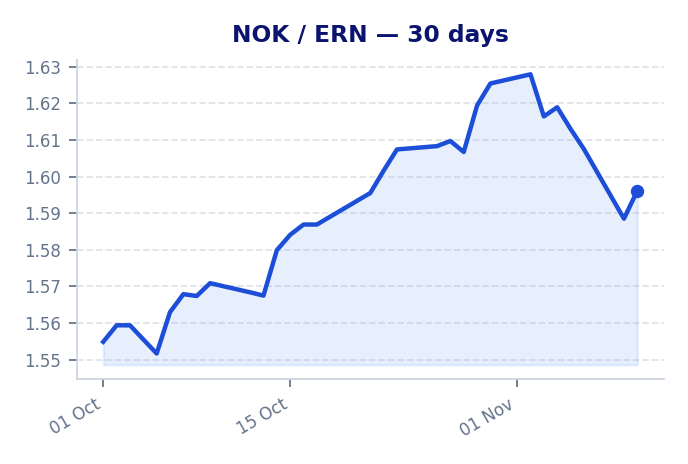
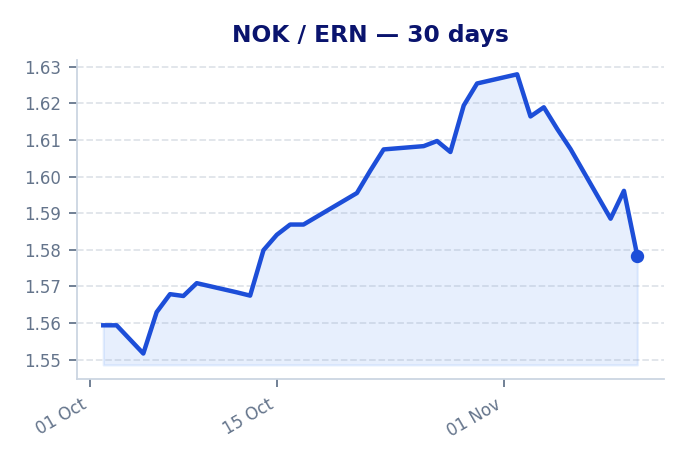
Add files via upload

diff --git a/index.html b/index.html
@@ -912,22 +912,22 @@ tr:hover {
 
             <div class="summary-item">
                 <div class="summary-label">SEK</div>
-                <div class="summary-value">1.531</div>
+                <div class="summary-value">1.5183</div>
             </div>
 
             <div class="summary-item">
                 <div class="summary-label">NOK</div>
-                <div class="summary-value">1.5961</div>
+                <div class="summary-value">1.5784</div>
             </div>
 
             <div class="summary-item">
                 <div class="summary-label">DKK</div>
-                <div class="summary-value">2.2522</div>
+                <div class="summary-value">2.2389</div>
             </div>
 
             </div>
             <div class="mid-market-meta">
-                <div><span style="font-weight:600" data-i18n="last-updated">Last Updated:</span> 2026-11-10 07:01</div>
+                <div><span style="font-weight:600" data-i18n="last-updated">Last Updated:</span> 2026-11-11 07:13</div>
                 <div style="font-size:0.8rem" data-i18n="mid-market-note">Official mid-market rates collected daily. Actual transfer payout rates shown below.</div>
             </div>
         </div>
@@ -951,7 +951,7 @@ tr:hover {
                 </div>
                 <div class="gainbox">
                     <span class="icon">💡</span> 
-                    <span data-i18n="smart-move">Smart Move: You get <b>+358 ERN</b> more with <b>Ria</b> vs <b>Juba Express</b></span>
+                    <span data-i18n="smart-move">Smart Move: You get <b>+471 ERN</b> more with <b>Ria</b> vs <b>Juba Express</b></span>
                 </div>
             </div>
             
@@ -978,19 +978,19 @@ tr:hover {
 <td class="right font-numeric">0,00</td>
 <td class="right nowrap font-numeric highlight-ern">15 000</td>
 <td class="right nowrap font-numeric">-</td>
-<td class="right font-numeric markup-cell">2.02%</td>
+<td class="right font-numeric markup-good">1.21%</td>
 <td class="right font-numeric hide-mobile"><span class="badge best-badge">Best</span></td>
 </tr>
 
 <tr class="">
 <td class="left">
-    <div class="company-name">Remitly</div>
+    <div class="company-name">Transfer Galaxy</div>
 </td>
-<td class="right font-numeric">1.4917</td>
+<td class="right font-numeric">1.4854</td>
 <td class="right font-numeric">0,00</td>
-<td class="right nowrap font-numeric highlight-ern">14 917</td>
-<td class="right nowrap font-numeric"><span class="loss-text">-83 ERN</span></td>
-<td class="right font-numeric markup-cell">2.57%</td>
+<td class="right nowrap font-numeric highlight-ern">14 854</td>
+<td class="right nowrap font-numeric"><span class="loss-text">-146 ERN</span></td>
+<td class="right font-numeric markup-cell">2.17%</td>
 <td class="right font-numeric hide-mobile"><span class="badge rank-badge">#2</span></td>
 </tr>
 
@@ -998,23 +998,23 @@ tr:hover {
 <td class="left">
     <div class="company-name">Western Union</div>
 </td>
-<td class="right font-numeric">1.4889</td>
+<td class="right font-numeric">1.4788</td>
 <td class="right font-numeric">0,00</td>
-<td class="right nowrap font-numeric highlight-ern">14 888</td>
-<td class="right nowrap font-numeric"><span class="loss-text">-111 ERN</span></td>
-<td class="right font-numeric markup-cell">2.75%</td>
+<td class="right nowrap font-numeric highlight-ern">14 787</td>
+<td class="right nowrap font-numeric"><span class="loss-text">-212 ERN</span></td>
+<td class="right font-numeric markup-cell">2.60%</td>
 <td class="right font-numeric hide-mobile"><span class="badge rank-badge">#3</span></td>
 </tr>
 
 <tr class="">
 <td class="left">
-    <div class="company-name">Transfer Galaxy</div>
+    <div class="company-name">Remitly</div>
 </td>
-<td class="right font-numeric">1.4849</td>
+<td class="right font-numeric">1.4785</td>
 <td class="right font-numeric">0,00</td>
-<td class="right nowrap font-numeric highlight-ern">14 849</td>
-<td class="right nowrap font-numeric"><span class="loss-text">-150 ERN</span></td>
-<td class="right font-numeric markup-cell">3.01%</td>
+<td class="right nowrap font-numeric highlight-ern">14 785</td>
+<td class="right nowrap font-numeric"><span class="loss-text">-215 ERN</span></td>
+<td class="right font-numeric markup-cell">2.62%</td>
 <td class="right font-numeric hide-mobile"><span class="badge rank-badge">#4</span></td>
 </tr>
 
@@ -1022,11 +1022,11 @@ tr:hover {
 <td class="left">
     <div class="company-name">Dahabshiil</div>
 </td>
-<td class="right font-numeric">1.4744</td>
+<td class="right font-numeric">1.4623</td>
 <td class="right font-numeric">0,00</td>
-<td class="right nowrap font-numeric highlight-ern">14 744</td>
-<td class="right nowrap font-numeric"><span class="loss-text">-256 ERN</span></td>
-<td class="right font-numeric markup-cell">3.70%</td>
+<td class="right nowrap font-numeric highlight-ern">14 623</td>
+<td class="right nowrap font-numeric"><span class="loss-text">-377 ERN</span></td>
+<td class="right font-numeric markup-cell">3.69%</td>
 <td class="right font-numeric hide-mobile"><span class="badge rank-badge">#5</span></td>
 </tr>
 
@@ -1034,11 +1034,11 @@ tr:hover {
 <td class="left">
     <div class="company-name">Juba Express</div>
 </td>
-<td class="right font-numeric">1.4642</td>
+<td class="right font-numeric">1.4529</td>
 <td class="right font-numeric">0,00</td>
-<td class="right nowrap font-numeric highlight-ern">14 642</td>
-<td class="right nowrap font-numeric"><span class="loss-text">-358 ERN</span></td>
-<td class="right font-numeric markup-cell">4.36%</td>
+<td class="right nowrap font-numeric highlight-ern">14 529</td>
+<td class="right nowrap font-numeric"><span class="loss-text">-471 ERN</span></td>
+<td class="right font-numeric markup-cell">4.31%</td>
 <td class="right font-numeric hide-mobile"><span class="badge rank-badge">#6</span></td>
 </tr>
 
@@ -1060,11 +1060,11 @@ tr:hover {
             <div class="insight-boxes">
                 <div class="bestbox">
                     <span class="icon">🏆</span> 
-                    <span data-i18n="top-pick">Top Pick: <b>Remitly</b> delivers <b>15 489 ERN</b></span>
+                    <span data-i18n="top-pick">Top Pick: <b>Transfer Galaxy</b> delivers <b>15 416 ERN</b></span>
                 </div>
                 <div class="gainbox">
                     <span class="icon">💡</span> 
-                    <span data-i18n="smart-move">Smart Move: You get <b>+596 ERN</b> more with <b>Remitly</b> vs <b>Dahabshiil</b></span>
+                    <span data-i18n="smart-move">Smart Move: You get <b>+690 ERN</b> more with <b>Transfer Galaxy</b> vs <b>Dahabshiil</b></span>
                 </div>
             </div>
             
@@ -1085,26 +1085,14 @@ tr:hover {
                         
 <tr class="best-row">
 <td class="left">
-    <div class="company-name">Remitly</div>
-</td>
-<td class="right font-numeric">1.5489</td>
-<td class="right font-numeric">0,00</td>
-<td class="right nowrap font-numeric highlight-ern">15 489</td>
-<td class="right nowrap font-numeric">-</td>
-<td class="right font-numeric markup-cell">2.96%</td>
-<td class="right font-numeric hide-mobile"><span class="badge best-badge">Best</span></td>
-</tr>
-
-<tr class="">
-<td class="left">
     <div class="company-name">Transfer Galaxy</div>
 </td>
-<td class="right font-numeric">1.5456</td>
+<td class="right font-numeric">1.5416</td>
 <td class="right font-numeric">0,00</td>
-<td class="right nowrap font-numeric highlight-ern">15 456</td>
-<td class="right nowrap font-numeric"><span class="loss-text">-33 ERN</span></td>
-<td class="right font-numeric markup-cell">3.16%</td>
-<td class="right font-numeric hide-mobile"><span class="badge rank-badge">#2</span></td>
+<td class="right nowrap font-numeric highlight-ern">15 416</td>
+<td class="right nowrap font-numeric">-</td>
+<td class="right font-numeric markup-cell">2.33%</td>
+<td class="right font-numeric hide-mobile"><span class="badge best-badge">Best</span></td>
 </tr>
 
 <tr class="">
@@ -1114,8 +1102,20 @@ tr:hover {
 <td class="right font-numeric">1.5400</td>
 <td class="right font-numeric">0,00</td>
 <td class="right nowrap font-numeric highlight-ern">15 400</td>
-<td class="right nowrap font-numeric"><span class="loss-text">-89 ERN</span></td>
-<td class="right font-numeric markup-cell">3.51%</td>
+<td class="right nowrap font-numeric"><span class="loss-text">-16 ERN</span></td>
+<td class="right font-numeric markup-cell">2.43%</td>
+<td class="right font-numeric hide-mobile"><span class="badge rank-badge">#2</span></td>
+</tr>
+
+<tr class="">
+<td class="left">
+    <div class="company-name">Remitly</div>
+</td>
+<td class="right font-numeric">1.5313</td>
+<td class="right font-numeric">0,00</td>
+<td class="right nowrap font-numeric highlight-ern">15 313</td>
+<td class="right nowrap font-numeric"><span class="loss-text">-102 ERN</span></td>
+<td class="right font-numeric markup-cell">2.98%</td>
 <td class="right font-numeric hide-mobile"><span class="badge rank-badge">#3</span></td>
 </tr>
 
@@ -1123,10 +1123,10 @@ tr:hover {
 <td class="left">
     <div class="company-name">Juba Express</div>
 </td>
-<td class="right font-numeric">1.5266</td>
+<td class="right font-numeric">1.5097</td>
 <td class="right font-numeric">0,00</td>
-<td class="right nowrap font-numeric highlight-ern">15 266</td>
-<td class="right nowrap font-numeric"><span class="loss-text">-223 ERN</span></td>
+<td class="right nowrap font-numeric highlight-ern">15 097</td>
+<td class="right nowrap font-numeric"><span class="loss-text">-319 ERN</span></td>
 <td class="right font-numeric markup-cell">4.35%</td>
 <td class="right font-numeric hide-mobile"><span class="badge rank-badge">#4</span></td>
 </tr>
@@ -1135,11 +1135,11 @@ tr:hover {
 <td class="left">
     <div class="company-name">Hidmona Money Transfer</div>
 </td>
-<td class="right font-numeric">1.5154</td>
+<td class="right font-numeric">1.4987</td>
 <td class="right font-numeric">0,00</td>
-<td class="right nowrap font-numeric highlight-ern">15 154</td>
-<td class="right nowrap font-numeric"><span class="loss-text">-335 ERN</span></td>
-<td class="right font-numeric markup-cell">5.06%</td>
+<td class="right nowrap font-numeric highlight-ern">14 987</td>
+<td class="right nowrap font-numeric"><span class="loss-text">-429 ERN</span></td>
+<td class="right font-numeric markup-cell">5.05%</td>
 <td class="right font-numeric hide-mobile"><span class="badge rank-badge">#5</span></td>
 </tr>
 
@@ -1147,11 +1147,11 @@ tr:hover {
 <td class="left">
     <div class="company-name">Dahabshiil</div>
 </td>
-<td class="right font-numeric">1.4893</td>
+<td class="right font-numeric">1.4726</td>
 <td class="right font-numeric">0,00</td>
-<td class="right nowrap font-numeric highlight-ern">14 893</td>
-<td class="right nowrap font-numeric"><span class="loss-text">-596 ERN</span></td>
-<td class="right font-numeric markup-cell">6.69%</td>
+<td class="right nowrap font-numeric highlight-ern">14 726</td>
+<td class="right nowrap font-numeric"><span class="loss-text">-690 ERN</span></td>
+<td class="right font-numeric markup-cell">6.70%</td>
 <td class="right font-numeric hide-mobile"><span class="badge rank-badge">#6</span></td>
 </tr>
 
@@ -1173,11 +1173,11 @@ tr:hover {
             <div class="insight-boxes">
                 <div class="bestbox">
                     <span class="icon">🏆</span> 
-                    <span data-i18n="top-pick">Top Pick: <b>Western Union</b> delivers <b>22 511 ERN</b></span>
+                    <span data-i18n="top-pick">Top Pick: <b>Western Union</b> delivers <b>22 404 ERN</b></span>
                 </div>
                 <div class="gainbox">
                     <span class="icon">💡</span> 
-                    <span data-i18n="smart-move">Smart Move: You get <b>+971 ERN</b> more with <b>Western Union</b> vs <b>Juba Express</b></span>
+                    <span data-i18n="smart-move">Smart Move: You get <b>+987 ERN</b> more with <b>Western Union</b> vs <b>Juba Express</b></span>
                 </div>
             </div>
             
@@ -1200,11 +1200,11 @@ tr:hover {
 <td class="left">
     <div class="company-name">Western Union</div>
 </td>
-<td class="right font-numeric">2.2511</td>
+<td class="right font-numeric">2.2404</td>
 <td class="right font-numeric">0,00</td>
-<td class="right nowrap font-numeric highlight-ern">22 511</td>
+<td class="right nowrap font-numeric highlight-ern">22 404</td>
 <td class="right nowrap font-numeric">-</td>
-<td class="right font-numeric markup-good">0.05%</td>
+<td class="right font-numeric markup-good">-0.07%</td>
 <td class="right font-numeric hide-mobile"><span class="badge best-badge">Best</span></td>
 </tr>
 
@@ -1215,8 +1215,8 @@ tr:hover {
 <td class="right font-numeric">2.2100</td>
 <td class="right font-numeric">0,00</td>
 <td class="right nowrap font-numeric highlight-ern">22 100</td>
-<td class="right nowrap font-numeric"><span class="loss-text">-411 ERN</span></td>
-<td class="right font-numeric markup-good">1.87%</td>
+<td class="right nowrap font-numeric"><span class="loss-text">-304 ERN</span></td>
+<td class="right font-numeric markup-good">1.29%</td>
 <td class="right font-numeric hide-mobile"><span class="badge rank-badge">#2</span></td>
 </tr>
 
@@ -1224,35 +1224,35 @@ tr:hover {
 <td class="left">
     <div class="company-name">Hidmona Money Transfer</div>
 </td>
-<td class="right font-numeric">2.2083</td>
+<td class="right font-numeric">2.1976</td>
 <td class="right font-numeric">0,00</td>
-<td class="right nowrap font-numeric highlight-ern">22 083</td>
+<td class="right nowrap font-numeric highlight-ern">21 976</td>
 <td class="right nowrap font-numeric"><span class="loss-text">-428 ERN</span></td>
-<td class="right font-numeric markup-good">1.95%</td>
+<td class="right font-numeric markup-good">1.84%</td>
 <td class="right font-numeric hide-mobile"><span class="badge rank-badge">#3</span></td>
-</tr>
-
-<tr class="">
-<td class="left">
-    <div class="company-name">Remitly</div>
-</td>
-<td class="right font-numeric">2.2004</td>
-<td class="right font-numeric">0,00</td>
-<td class="right nowrap font-numeric highlight-ern">22 004</td>
-<td class="right nowrap font-numeric"><span class="loss-text">-507 ERN</span></td>
-<td class="right font-numeric markup-cell">2.30%</td>
-<td class="right font-numeric hide-mobile"><span class="badge rank-badge">#4</span></td>
 </tr>
 
 <tr class="">
 <td class="left">
     <div class="company-name">Transfer Galaxy</div>
 </td>
-<td class="right font-numeric">2.1848</td>
+<td class="right font-numeric">2.1899</td>
 <td class="right font-numeric">0,00</td>
-<td class="right nowrap font-numeric highlight-ern">21 848</td>
-<td class="right nowrap font-numeric"><span class="loss-text">-663 ERN</span></td>
-<td class="right font-numeric markup-cell">2.99%</td>
+<td class="right nowrap font-numeric highlight-ern">21 899</td>
+<td class="right nowrap font-numeric"><span class="loss-text">-505 ERN</span></td>
+<td class="right font-numeric markup-cell">2.19%</td>
+<td class="right font-numeric hide-mobile"><span class="badge rank-badge">#4</span></td>
+</tr>
+
+<tr class="">
+<td class="left">
+    <div class="company-name">Remitly</div>
+</td>
+<td class="right font-numeric">2.1888</td>
+<td class="right font-numeric">0,00</td>
+<td class="right nowrap font-numeric highlight-ern">21 888</td>
+<td class="right nowrap font-numeric"><span class="loss-text">-516 ERN</span></td>
+<td class="right font-numeric markup-cell">2.24%</td>
 <td class="right font-numeric hide-mobile"><span class="badge rank-badge">#5</span></td>
 </tr>
 
@@ -1260,11 +1260,11 @@ tr:hover {
 <td class="left">
     <div class="company-name">Juba Express</div>
 </td>
-<td class="right font-numeric">2.1540</td>
+<td class="right font-numeric">2.1417</td>
 <td class="right font-numeric">0,00</td>
-<td class="right nowrap font-numeric highlight-ern">21 540</td>
-<td class="right nowrap font-numeric"><span class="loss-text">-971 ERN</span></td>
-<td class="right font-numeric markup-cell">4.36%</td>
+<td class="right nowrap font-numeric highlight-ern">21 417</td>
+<td class="right nowrap font-numeric"><span class="loss-text">-987 ERN</span></td>
+<td class="right font-numeric markup-cell">4.34%</td>
 <td class="right font-numeric hide-mobile"><span class="badge rank-badge">#6</span></td>
 </tr>
 
@@ -1282,7 +1282,7 @@ tr:hover {
             <div class="chart-card">
                 <div class="chart-header">
                     <img src="https://flagcdn.com/w40/se.png" class="flag-sm" alt="Sweden" width="24" height="16" loading="lazy" decoding="async"> <span>SEK / ERN</span>
-                    <span class="trend-badge up">▲ 2.3%</span>
+                    <span class="trend-badge up">▲ 1.5%</span>
                 </div>
                 <img src="sek_chart.png" class="chart-img" alt="SEK to ERN exchange-rate trend over the last 30 days" loading="lazy" decoding="async" width="688" height="464">
             </div>
@@ -1290,7 +1290,7 @@ tr:hover {
             <div class="chart-card">
                 <div class="chart-header">
                     <img src="https://flagcdn.com/w40/no.png" class="flag-sm" alt="Norway" width="24" height="16" loading="lazy" decoding="async"> <span>NOK / ERN</span>
-                    <span class="trend-badge up">▲ 2.6%</span>
+                    <span class="trend-badge up">▲ 1.2%</span>
                 </div>
                 <img src="nok_chart.png" class="chart-img" alt="NOK to ERN exchange-rate trend over the last 30 days" loading="lazy" decoding="async" width="688" height="464">
             </div>
@@ -1361,7 +1361,7 @@ tr:hover {
         "calculator-note": "እቲ ዝበለጸ ክፍሊት ንዝኣተኻዮ መጠን ብተመሳሳሊ ሕሳብ ዋጋን ክፍሊትን ከም ሰንጠረዥ ይደጋገም።"
     };
 
-    const calculatorData = {"SEK": [{"provider": "Ria", "rate": 1.5, "total_fee": 0.0}, {"provider": "Remitly", "rate": 1.4917, "total_fee": 0.0}, {"provider": "Western Union", "rate": 1.4889, "total_fee": 0.0}, {"provider": "Transfer Galaxy", "rate": 1.4849, "total_fee": 0.0}, {"provider": "Dahabshiil", "rate": 1.4744, "total_fee": 0.0}, {"provider": "Juba Express", "rate": 1.4642, "total_fee": 0.0}], "NOK": [{"provider": "Remitly", "rate": 1.5489, "total_fee": 0.0}, {"provider": "Transfer Galaxy", "rate": 1.5456, "total_fee": 0.0}, {"provider": "Ria Money Transfer", "rate": 1.54, "total_fee": 0.0}, {"provider": "Juba Express", "rate": 1.5266, "total_fee": 0.0}, {"provider": "Hidmona Money Transfer", "rate": 1.5154, "total_fee": 0.0}, {"provider": "Dahabshiil", "rate": 1.4893, "total_fee": 0.0}], "DKK": [{"provider": "Western Union", "rate": 2.2511, "total_fee": 0.0}, {"provider": "Ria Money Transfer", "rate": 2.21, "total_fee": 0.0}, {"provider": "Hidmona Money Transfer", "rate": 2.2083, "total_fee": 0.0}, {"provider": "Remitly", "rate": 2.2004, "total_fee": 0.0}, {"provider": "Transfer Galaxy", "rate": 2.1848, "total_fee": 0.0}, {"provider": "Juba Express", "rate": 2.154, "total_fee": 0.0}]};
+    const calculatorData = {"SEK": [{"provider": "Ria", "rate": 1.5, "total_fee": 0.0}, {"provider": "Transfer Galaxy", "rate": 1.4854, "total_fee": 0.0}, {"provider": "Western Union", "rate": 1.4788, "total_fee": 0.0}, {"provider": "Remitly", "rate": 1.4785, "total_fee": 0.0}, {"provider": "Dahabshiil", "rate": 1.4623, "total_fee": 0.0}, {"provider": "Juba Express", "rate": 1.4529, "total_fee": 0.0}], "NOK": [{"provider": "Transfer Galaxy", "rate": 1.5416, "total_fee": 0.0}, {"provider": "Ria Money Transfer", "rate": 1.54, "total_fee": 0.0}, {"provider": "Remitly", "rate": 1.5313, "total_fee": 0.0}, {"provider": "Juba Express", "rate": 1.5097, "total_fee": 0.0}, {"provider": "Hidmona Money Transfer", "rate": 1.4987, "total_fee": 0.0}, {"provider": "Dahabshiil", "rate": 1.4726, "total_fee": 0.0}], "DKK": [{"provider": "Western Union", "rate": 2.2404, "total_fee": 0.0}, {"provider": "Ria Money Transfer", "rate": 2.21, "total_fee": 0.0}, {"provider": "Hidmona Money Transfer", "rate": 2.1976, "total_fee": 0.0}, {"provider": "Transfer Galaxy", "rate": 2.1899, "total_fee": 0.0}, {"provider": "Remitly", "rate": 2.1888, "total_fee": 0.0}, {"provider": "Juba Express", "rate": 2.1417, "total_fee": 0.0}]};
     const labels = [...document.querySelectorAll('[data-i18n]')];
     const english = new Map(labels.map(el => [el, el.innerHTML]));
 
